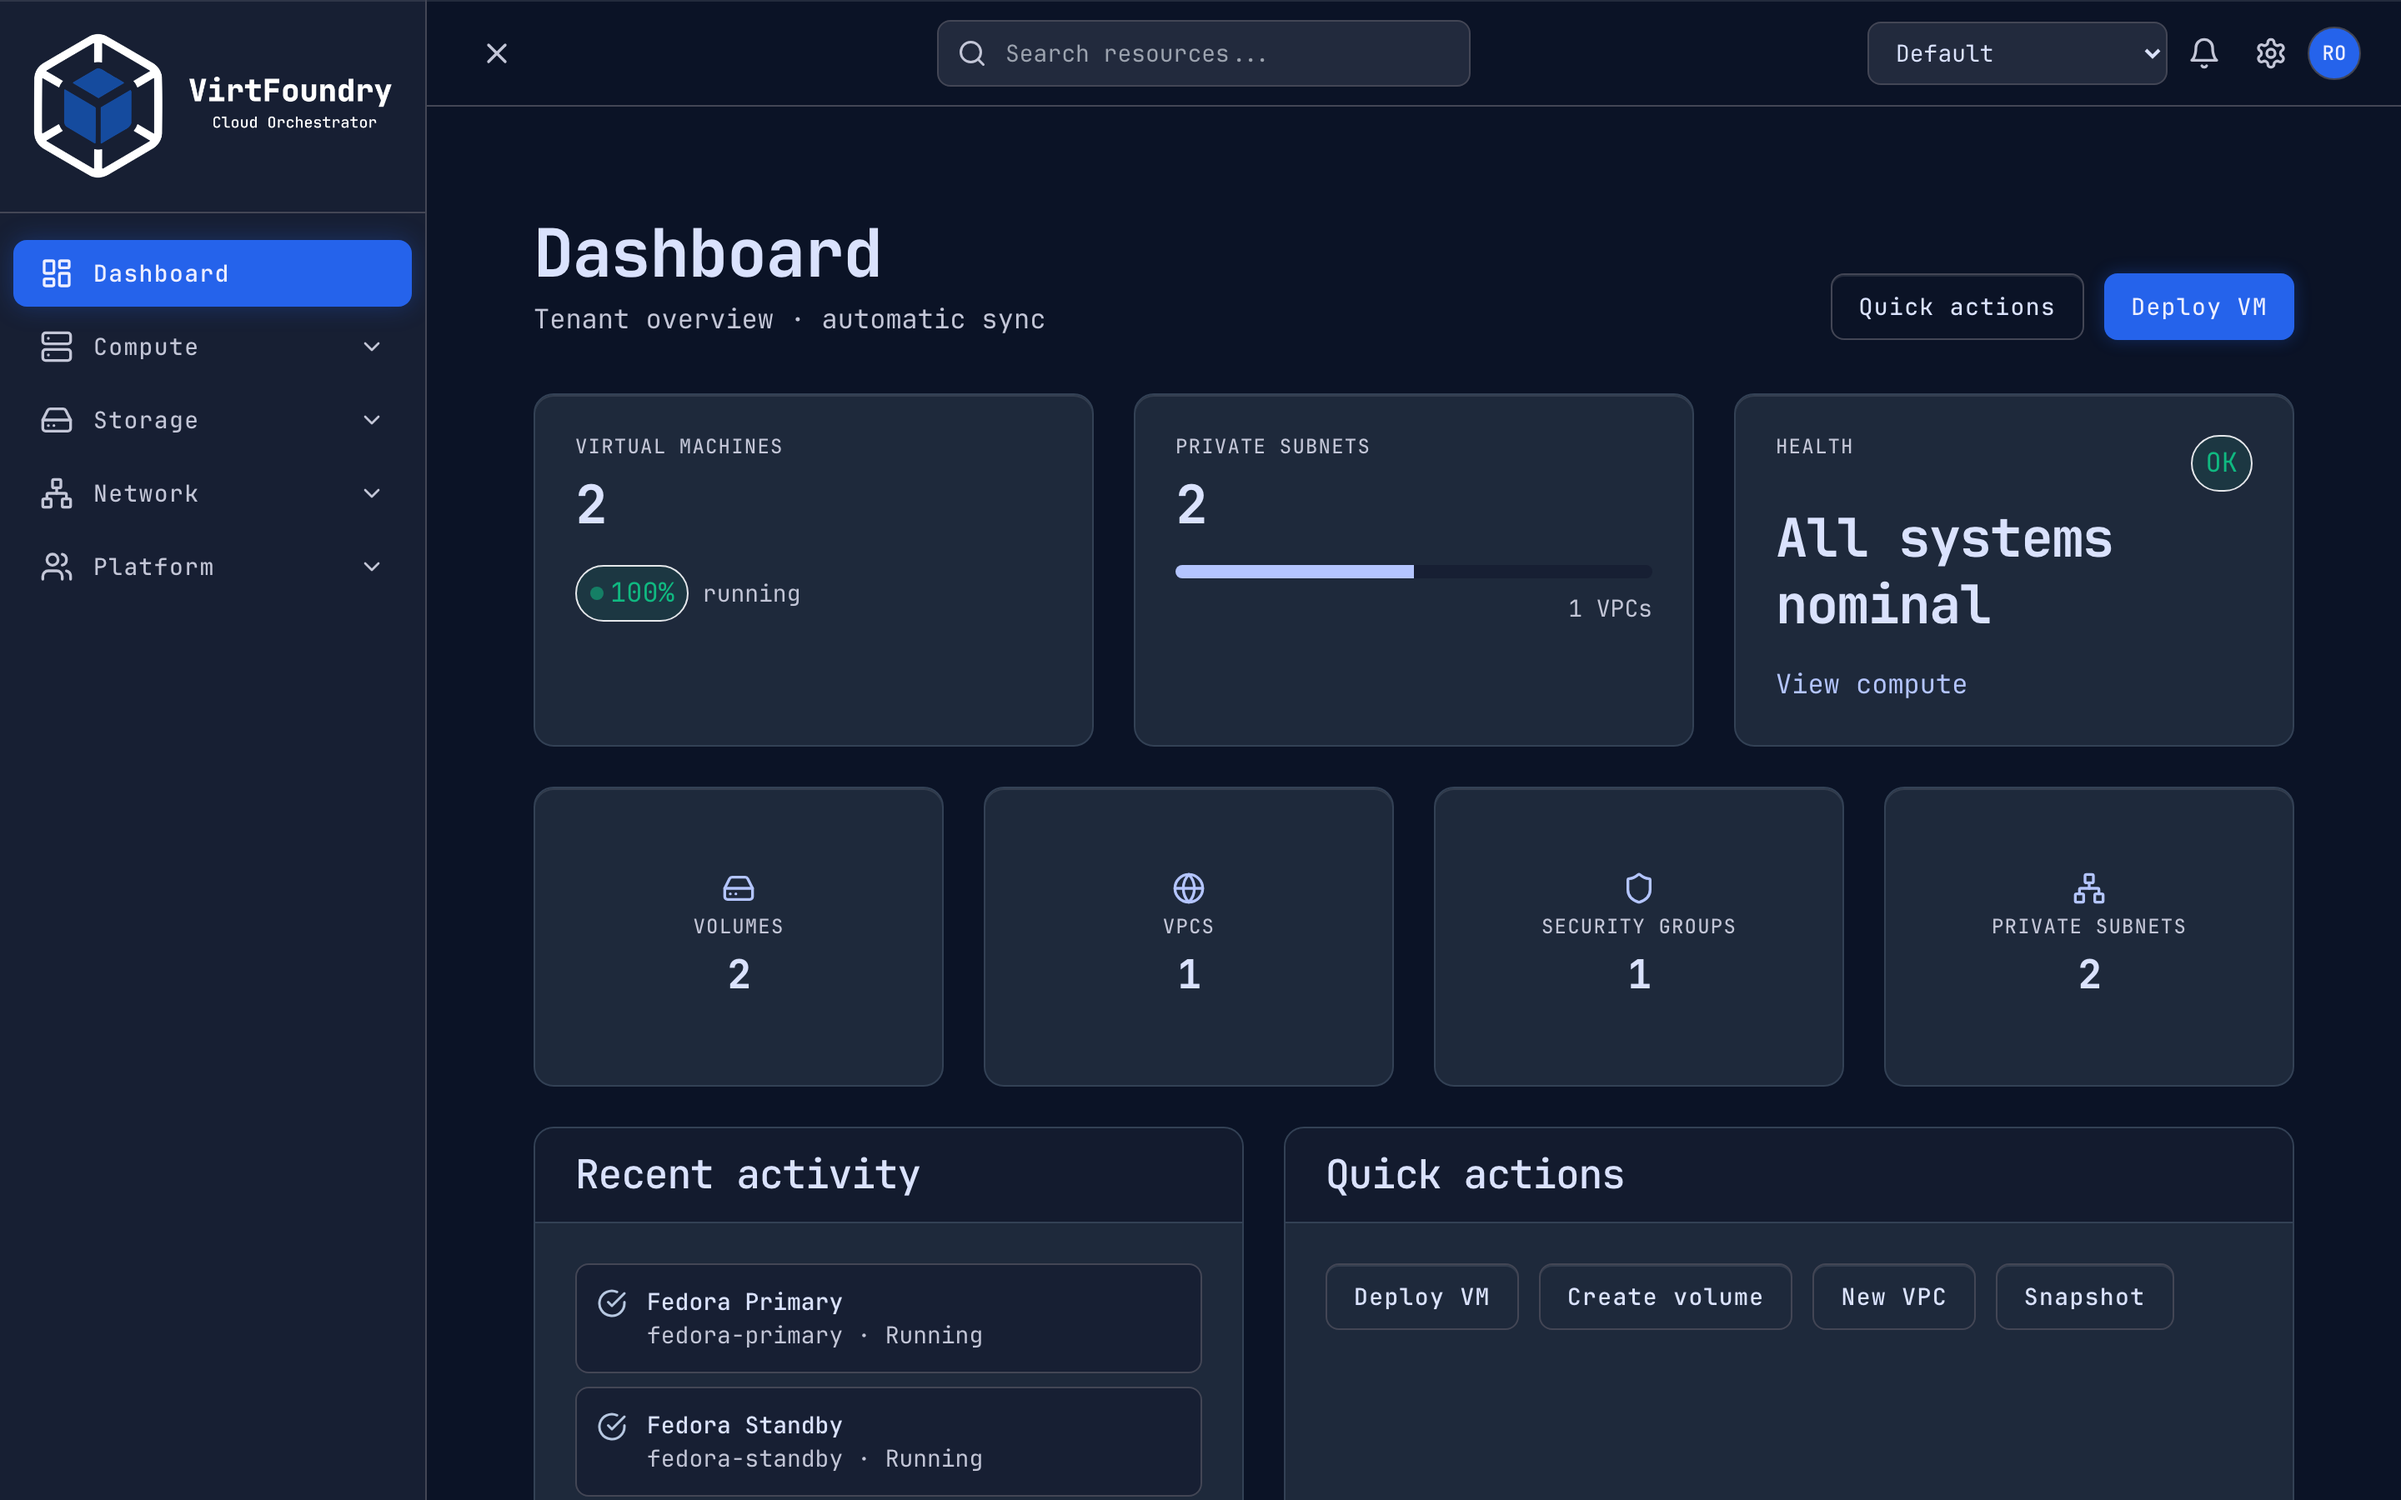
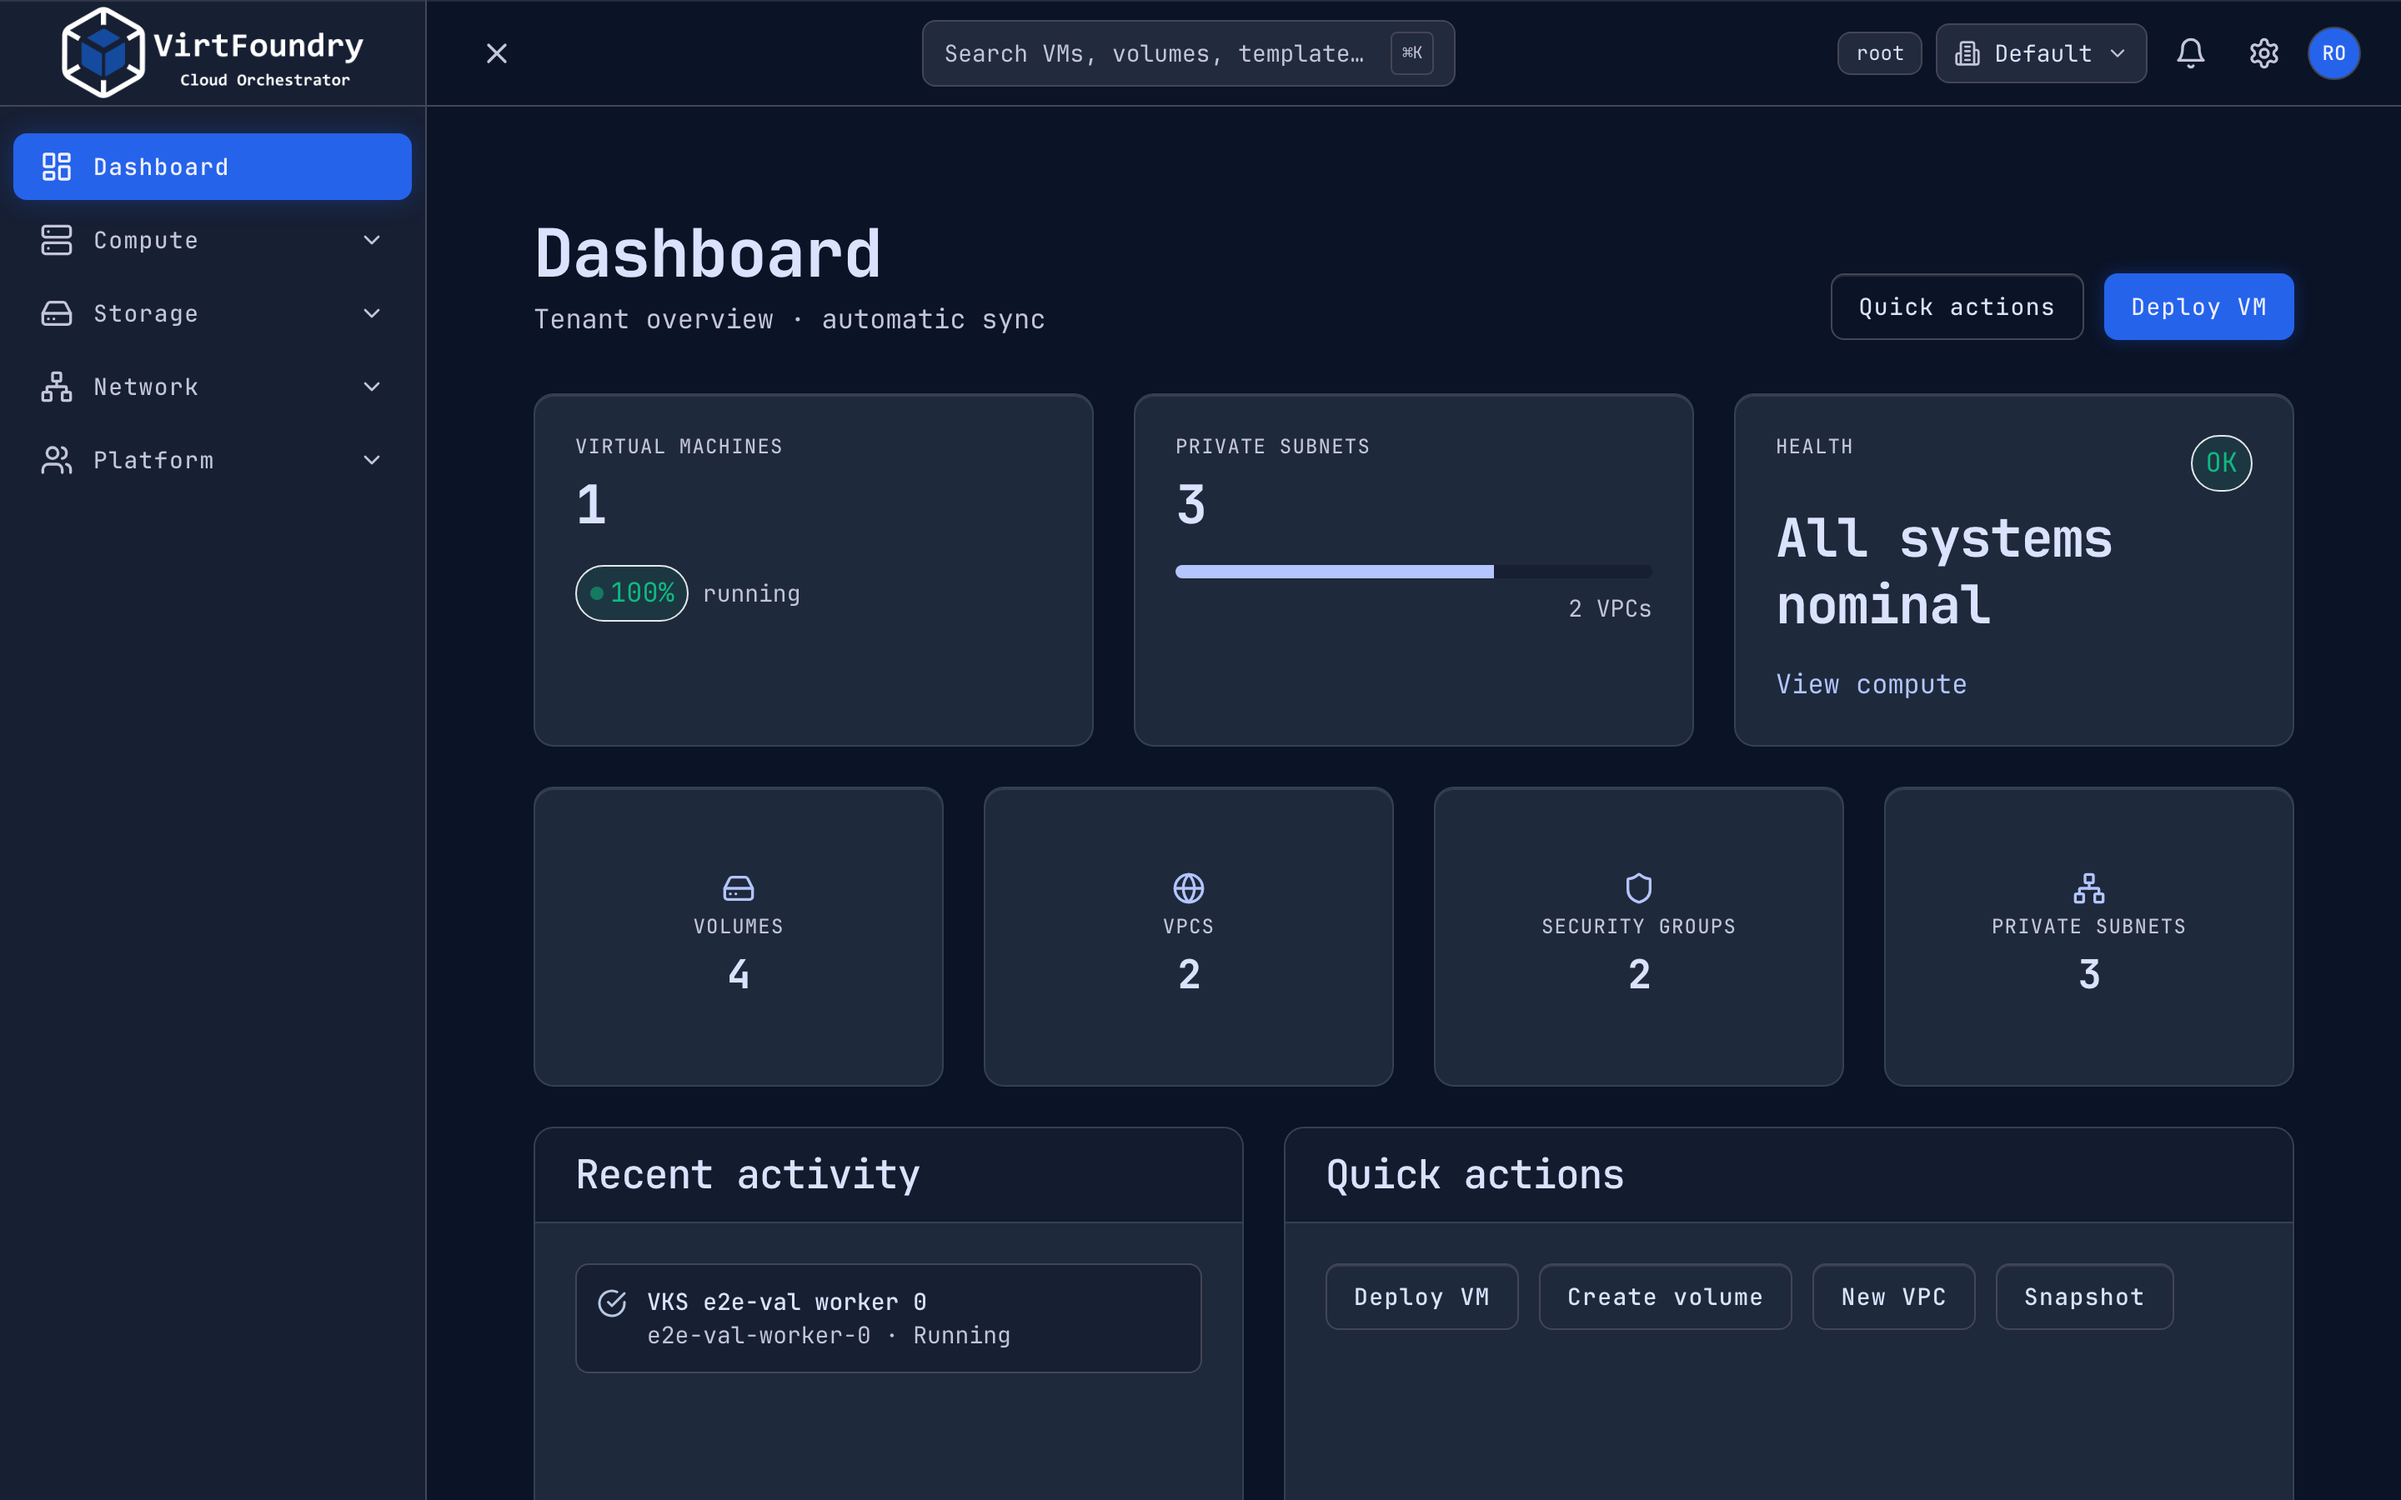
docs(site): refresh UI screenshots for 0.10.0 and add VKS clusters (#104)
* docs(site): refresh UI screenshots for 0.10.0 and add VKS clusters

* docs(site): regenerate CRD terminal screenshot with VKS

diff --git a/scripts/docs/render-terminal-shot.py b/scripts/docs/render-terminal-shot.py
@@ -105,7 +105,7 @@ def main() -> None:
     tenant_lines = ["$ kubectl get vf-tenant", "NAME              PHASE   NAMESPACE"]
     for row in tenants.splitlines():
         parts = row.split()
-        if len(parts) >= 3:
+        if len(parts) >= 3 and not parts[0].startswith("e2e-tenant-"):  # skip test debris
             tenant_lines.append(f"{parts[0]:<17} {parts[1]:<7} {parts[2]}")
 
     instances = k(
@@ -121,6 +121,20 @@ def main() -> None:
         parts = row.split()
         if len(parts) >= 4:
             inst_lines.append(f"{parts[0]:<28} {parts[1]:<8} {parts[2]:<9} {parts[3]}")
+
+    vks = k(
+        "get",
+        "vksclusters.virtfoundry.io",
+        "-A",
+        "-o",
+        "custom-columns=NAMESPACE:.metadata.namespace,NAME:.metadata.name,PHASE:.status.phase,VERSION:.spec.kubernetesVersion",
+        "--no-headers",
+    )
+    vks_lines = ["$ kubectl get vksc -A", "NAMESPACE                    NAME      PHASE   VERSION"]
+    for row in vks.splitlines():
+        parts = row.split()
+        if len(parts) >= 4:
+            vks_lines.append(f"{parts[0]:<28} {parts[1]:<9} {parts[2]:<7} {parts[3]}")
 
     snaps = k(
         "get",
@@ -157,7 +171,7 @@ def main() -> None:
             pod_lines.append(f"{parts[0]:<33} {ready:<7} {parts[2]}")
 
     out = Path(args.out)
-    all_lines = crd_lines + [""] + tenant_lines + [""] + inst_lines + [""] + snap_lines + [""] + pod_lines
+    all_lines = crd_lines + [""] + tenant_lines + [""] + inst_lines + [""] + vks_lines + [""] + snap_lines + [""] + pod_lines
     render("virtfoundry.io CRD store — homelab", all_lines, out)
 
 

diff --git a/scripts/docs/capture-ui-shots.py b/scripts/docs/capture-ui-shots.py
@@ -3,17 +3,22 @@
 
 from __future__ import annotations
 
+import os
 import sys
 from pathlib import Path
 
 from playwright.sync_api import sync_playwright
 
-BASE = "http://127.0.0.1:18080"
+BASE = os.environ.get("VF_UI_URL", "http://virtfoundry.homelab")
 OUT = Path(__file__).resolve().parents[2] / "docs" / "assets" / "screenshots"
 PAGES = [
     ("02-dashboard.png", "/dashboard"),
     ("03-vms.png", "/vms"),
+    ("04-templates.png", "/templates"),
+    ("05-volumes.png", "/volumes"),
+    ("07-networks.png", "/networks"),
     ("08-vm-snapshots.png", "/vm-snapshots"),
+    ("09-clusters.png", "/clusters"),
 ]
 
 
@@ -21,9 +26,12 @@ def main() -> None:
     OUT.mkdir(parents=True, exist_ok=True)
     with sync_playwright() as p:
         browser = p.chromium.launch(headless=True)
-        page = browser.new_page(viewport={"width": 1440, "height": 900}, device_scale_factor=2)
+        page = browser.new_page(viewport={"width": 1440, "height": 900}, device_scale_factor=2, color_scheme="dark")
+        page.add_init_script("localStorage.setItem('virtfoundry_theme', 'dark')")
         page.goto(f"{BASE}/login", wait_until="networkidle")
         page.get_by_role("button", name="EN", exact=True).click()
+        page.screenshot(path=str(OUT / "01-login.png"), full_page=False)
+        print(f"wrote {OUT / '01-login.png'}")
         page.get_by_placeholder("root or tenant-admin").fill("root")
         page.get_by_placeholder("••••••••").fill("virtfoundry")
         page.get_by_role("button", name="Sign in").click()

diff --git a/docs/project/versioning.md b/docs/project/versioning.md
@@ -71,6 +71,7 @@ helm install virtfoundry virtfoundry/virtfoundry --version 0.10.0 \
    ```
 
 6. CI publishes container images and Helm package; docs site rebuilds; homelab digest write-back updates Argo overlay
+7. **After the homelab syncs, refresh the docs screenshots** in a docs-only PR: `python scripts/docs/capture-ui-shots.py` writes `docs/assets/screenshots/` in the dark theme (set `VF_UI_URL` to override the homelab URL). Check that the login footer shows the new version and that no secrets are visible.
 
 ## Compatibility
 

diff --git a/docs/guide/features/vks.md b/docs/guide/features/vks.md
@@ -25,6 +25,11 @@ flowchart LR
 | IaaS operator | Turns each worker `Instance` into a KubeVirt VM |
 | Kamaji | Hosts the Kubernetes API server and etcd for the tenant cluster |
 
+<figure markdown="span">
+  ![VKS clusters list in the VirtFoundry console](../../assets/screenshots/09-clusters.png)
+  <figcaption>Compute → VKS Clusters. Click to zoom.</figcaption>
+</figure>
+
 ## Create a cluster
 
 ```yaml
